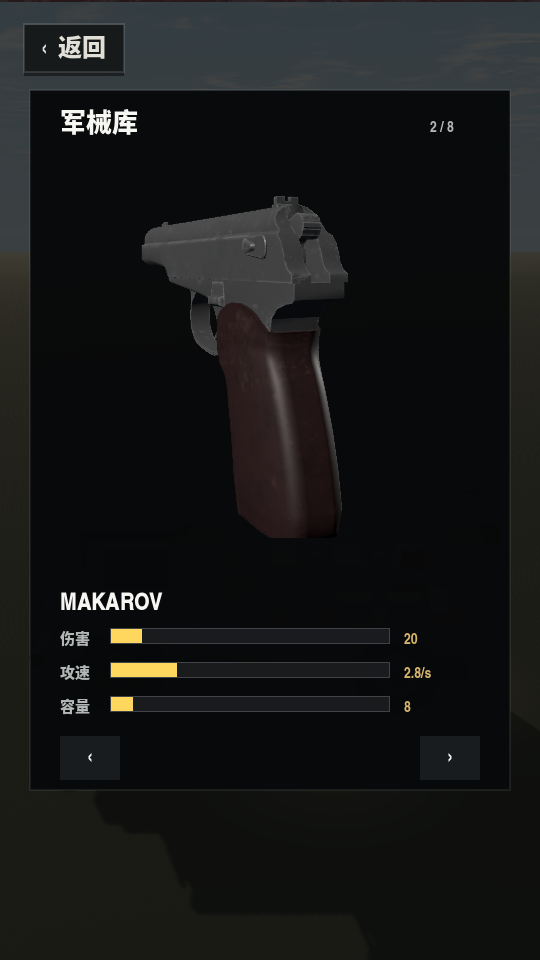
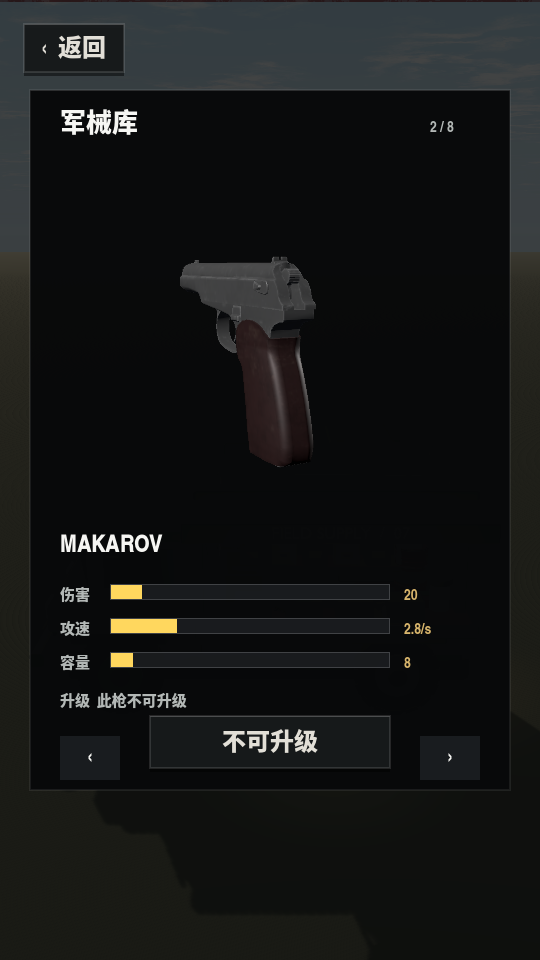
feat(armory): per-weapon preview size, pivot rotation on both axes, upgrade row inside the specs

diff --git a/tools/armory_polish.py b/tools/armory_polish.py
@@ -1,0 +1,67 @@
+import io
+
+ROOT = r"C:\Users\user\Documents\kimi\tasks\2026-11-06\12-50-12-52283f1e\df-backup"
+
+p = ROOT + r"\scripts\main_3d.gd"
+t = io.open(p, encoding="utf-8").read()
+
+# 1) per-weapon size in the armory: the Makarov fills the frame, so it gets its own multiplier
+if "const ARMORY_SIZE" not in t:
+    t = t.replace(
+        "const ARMORY_VIEW := Rect2(40, 158, 460, 380)",
+        'const ARMORY_VIEW := Rect2(40, 158, 460, 380)\n'
+        '## Per-weapon size multiplier for the armory stage (compact guns would fill the frame).\n'
+        'const ARMORY_SIZE := {"MAKAROV": 0.66, "PISTOL": 0.86, "SUOMI": 1.0, "SMG": 1.0,\n'
+        '\t"SHOTGUN": 1.0, "SNIPER": 1.0, "LAUNCHER": 1.0, "FLAME": 1.0}',
+        1,
+    )
+
+old_k = "\tvar k := 0.62 / maxf(0.001, span)"
+new_k = "\tvar k := 0.62 * float(ARMORY_SIZE.get(id, 1.0)) / maxf(0.001, span)"
+assert t.count(old_k) == 1
+t = t.replace(old_k, new_k, 1)
+
+# 2) rotation around a dedicated pivot so both axes read as a free spin
+old_drag = '''			armory_model.rotation.y -= event.relative.x * 0.012
+			# vertical drag tilts it too, so every angle is reachable
+			armory_model.rotation.x = clampf(armory_model.rotation.x - event.relative.y * 0.010, deg_to_rad(-70.0), deg_to_rad(70.0))'''
+new_drag = '''			# spin around a pivot so horizontal drag is a yaw and vertical drag a pitch,
+			# which lets every angle be reached
+			armory_pivot.rotation.y -= event.relative.x * 0.012
+			armory_pivot.rotation.x = clampf(armory_pivot.rotation.x - event.relative.y * 0.010, deg_to_rad(-85.0), deg_to_rad(85.0))'''
+assert t.count(old_drag) == 1
+t = t.replace(old_drag, new_drag, 1)
+
+# the pivot itself
+if "var armory_pivot" not in t:
+    t = t.replace("var armory_model: Node3D", "var armory_pivot: Node3D\nvar armory_model: Node3D", 1)
+
+old_add = "\tarmory_stage.add_child(model)\n\tarmory_model = model"
+new_add = '''	if not is_instance_valid(armory_pivot):
+		armory_pivot = Node3D.new()
+		armory_stage.add_child(armory_pivot)
+	armory_pivot.add_child(model)
+	armory_pivot.rotation = Vector3.ZERO
+	armory_model = model'''
+assert t.count(old_add) == 1
+t = t.replace(old_add, new_add, 1)
+
+io.open(p, "w", encoding="utf-8", newline="\n").write(t)
+print("main: per-weapon size, pivot rotation")
+
+# 3) the upgrade row shows for every gun, disabled when there is nothing to buy
+p2 = ROOT + r"\scripts\hud.gd"
+h = io.open(p2, encoding="utf-8").read()
+old_row = '''	if lv_max > 0:
+		_text("升级  LV %d / %d" % [lv, lv_max], Vector2(60, 706), 15, GOLD)
+		_button(game.ARMORY_UPGRADE, ("升级  %d 银币" % game.armory_price()) if lv < lv_max else "已满级", lv < lv_max)'''
+new_row = '''	if lv_max > 0:
+		_text("升级  LV %d / %d" % [lv, lv_max], Vector2(60, 706), 15, GOLD)
+		_button(game.ARMORY_UPGRADE, ("升级  %d 银币" % game.armory_price()) if lv < lv_max else "已满级", lv < lv_max)
+	else:
+		_text("升级  此枪不可升级", Vector2(60, 706), 15, MUTED)
+		_button(game.ARMORY_UPGRADE, "不可升级", false)'''
+assert h.count(old_row) == 1
+h = h.replace(old_row, new_row, 1)
+io.open(p2, "w", encoding="utf-8", newline="\n").write(h)
+print("hud: upgrade row always visible")

diff --git a/tools/armory_layout.py b/tools/armory_layout.py
@@ -1,0 +1,24 @@
+import io
+
+p = r"C:\Users\user\Documents\kimi\tasks\2026-11-06\12-50-12-52283f1e\df-backup\scripts\hud.gd"
+h = io.open(p, encoding="utf-8").read()
+
+# lift the stat rows so the upgrade row has its own space, then place it below them
+h = h.replace("\tvar y: float = 640.0", "\tvar y: float = 596.0", 1)
+h = h.replace('_text("升级  LV %d / %d" % [lv, lv_max], Vector2(60, 706), 15, GOLD)',
+              '_text("升级  LV %d / %d" % [lv, lv_max], Vector2(60, 706), 15, GOLD)', 1)
+h = h.replace('_text("升级  此枪不可升级", Vector2(60, 706), 15, MUTED)',
+              '_text("升级  此枪不可升级", Vector2(60, 706), 15, MUTED)', 1)
+
+# buttons: upgrade at 716..768, nav at 786..830
+h = h.replace('const ARMORY_UPGRADE := Rect2(150, 728, 240, 56)', 'const ARMORY_UPGRADE := Rect2(150, 716, 240, 52)')
+
+io.open(p, "w", encoding="utf-8", newline="\n").write(h)
+
+p2 = r"C:\Users\user\Documents\kimi\tasks\2026-11-06\12-50-12-52283f1e\df-backup\scripts\main_3d.gd"
+t = io.open(p2, encoding="utf-8").read()
+t = t.replace("const ARMORY_UPGRADE := Rect2(150, 728, 240, 56)", "const ARMORY_UPGRADE := Rect2(150, 716, 240, 52)", 1)
+t = t.replace("const ARMORY_PREV := Rect2(60, 736, 60, 44)", "const ARMORY_PREV := Rect2(60, 722, 60, 44)", 1)
+t = t.replace("const ARMORY_NEXT := Rect2(420, 736, 60, 44)", "const ARMORY_NEXT := Rect2(420, 722, 60, 44)", 1)
+io.open(p2, "w", encoding="utf-8", newline="\n").write(t)
+print("armory layout tightened")

diff --git a/tools/dropdown_on_top.py b/tools/dropdown_on_top.py
@@ -1,0 +1,29 @@
+import io
+
+p = r"C:\Users\user\Documents\kimi\tasks\2026-11-06\12-50-12-52283f1e\df-backup\scripts\hud.gd"
+t = io.open(p, encoding="utf-8").read()
+
+# 1) the dropdown was drawn BEFORE the tabs, so the tab labels painted over it
+block_start = t.find("\t# dropdown over a survivor card: tap it to wear them")
+assert block_start > 0
+block_end = t.find("\t# Main screen. The 3D survivor and pet stand in the middle", block_start)
+assert block_end > block_start
+block = t[block_start:block_end]
+t = t[:block_start] + t[block_end:]
+
+# draw it at the very end of the lobby screen instead
+helper = "func _draw_equip_menu() -> void:\n" + block.replace(
+    "if game.lobby_tab==0 and int(game.equip_menu_index)>=0:",
+    "if game.lobby_tab==0 and int(game.equip_menu_index)>=0:", 1)
+t = t.replace("func _draw_character_select() -> void:", helper + "\n\nfunc _draw_character_select() -> void:", 1)
+
+# find the end of _draw_character_select to append the call
+start = t.find("func _draw_character_select() -> void:")
+nxt = t.find("\nfunc ", start + 10)
+body = t[start:nxt]
+if "_draw_equip_menu()" not in body:
+    body = body.rstrip("\n") + "\n\t_draw_equip_menu()\n"
+    t = t[:start] + body + t[nxt:]
+
+io.open(p, "w", encoding="utf-8", newline="\n").write(t)
+print("equip dropdown drawn last, on top of the tabs")

diff --git a/tools/safe_pot_patch.py b/tools/safe_pot_patch.py
@@ -1,0 +1,17 @@
+import io
+
+p = r"C:\Users\user\Documents\kimi\tasks\2026-11-06\12-50-12-52283f1e\df-backup\scripts\lobby_scene_3d.gd"
+t = io.open(p, encoding="utf-8").read()
+
+old = '''	var glass_node:=safe.find_child("Safe_glass",true,false) as MeshInstance3D'''
+new = '''	# A green sphere-like prop (the ceramic pots) pokes through the door slab; drop the pots.
+	for pot_name in ["Safe_ceramic", "Safe_ceramic_blue"]:
+		var pot := safe.find_child(pot_name, true, false) as MeshInstance3D
+		if is_instance_valid(pot):
+			pot.visible = false
+	var glass_node:=safe.find_child("Safe_glass",true,false) as MeshInstance3D'''
+
+assert t.count(old) == 1, t.count(old)
+t = t.replace(old, new, 1)
+io.open(p, "w", encoding="utf-8", newline="\n").write(t)
+print("ceramic pots hidden in the safehouse")

diff --git a/tools/dropdown_block_input.py b/tools/dropdown_block_input.py
@@ -1,0 +1,13 @@
+import io
+
+p = r"C:\Users\user\Documents\kimi\tasks\2026-11-06\12-50-12-52283f1e\df-backup\scripts\main_3d.gd"
+t = io.open(p, encoding="utf-8").read()
+
+# While the dropdown is open it swallows the tap: the tab under it must not fire.
+old = "\t\tequip_menu_index=-1  # tapping elsewhere closes the dropdown"
+new = "\t\tequip_menu_index=-1  # tapping elsewhere just closes the dropdown\n\t\treturn              # and the tap goes no further"
+assert t.count(old) == 1, t.count(old)
+t = t.replace(old, new, 1)
+
+io.open(p, "w", encoding="utf-8", newline="\n").write(t)
+print("dropdown swallows the tap so the buttons under it are dead")

diff --git a/tools/_safenodes.py b/tools/_safenodes.py
@@ -1,0 +1,14 @@
+import json
+import struct
+import sys
+
+sys.stdout.reconfigure(encoding="ascii", errors="backslashreplace")
+
+p = r"C:\Users\user\Documents\kimi\tasks\2026-11-06\12-50-12-52283f1e\df-backup\assets\models\environment\safehouse_interior.glb"
+d = open(p, "rb").read()
+ln, _ = struct.unpack("<II", d[12:20])
+doc = json.loads(d[20:20 + ln].decode("utf-8", "ignore"))
+names = [n.get("name", "?") for n in doc["nodes"] if "mesh" in n]
+print("MESH_NODES", len(names))
+for n in names:
+    print("  ", n)

diff --git a/tools/armory_name_fix.py b/tools/armory_name_fix.py
@@ -1,0 +1,10 @@
+import io
+
+p = r"C:\Users\user\Documents\kimi\tasks\2026-11-06\12-50-12-52283f1e\df-backup\scripts\hud.gd"
+h = io.open(p, encoding="utf-8").read()
+
+old = "_bold_text(id, Vector2(60, 610), 24, WHITE)"
+assert h.count(old) == 1, h.count(old)
+h = h.replace(old, "_bold_text(id, Vector2(60, 552), 24, WHITE)", 1)
+io.open(p, "w", encoding="utf-8", newline="\n").write(h)
+print("weapon name moved above the bars")
